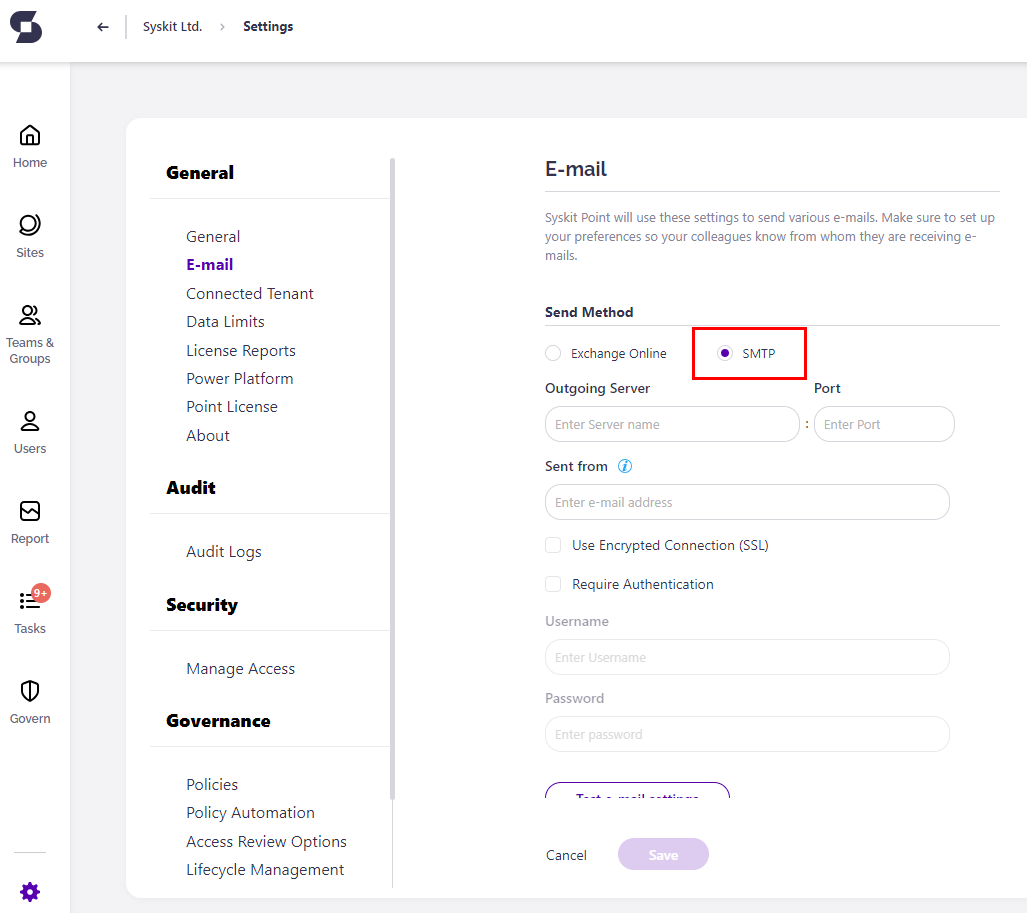
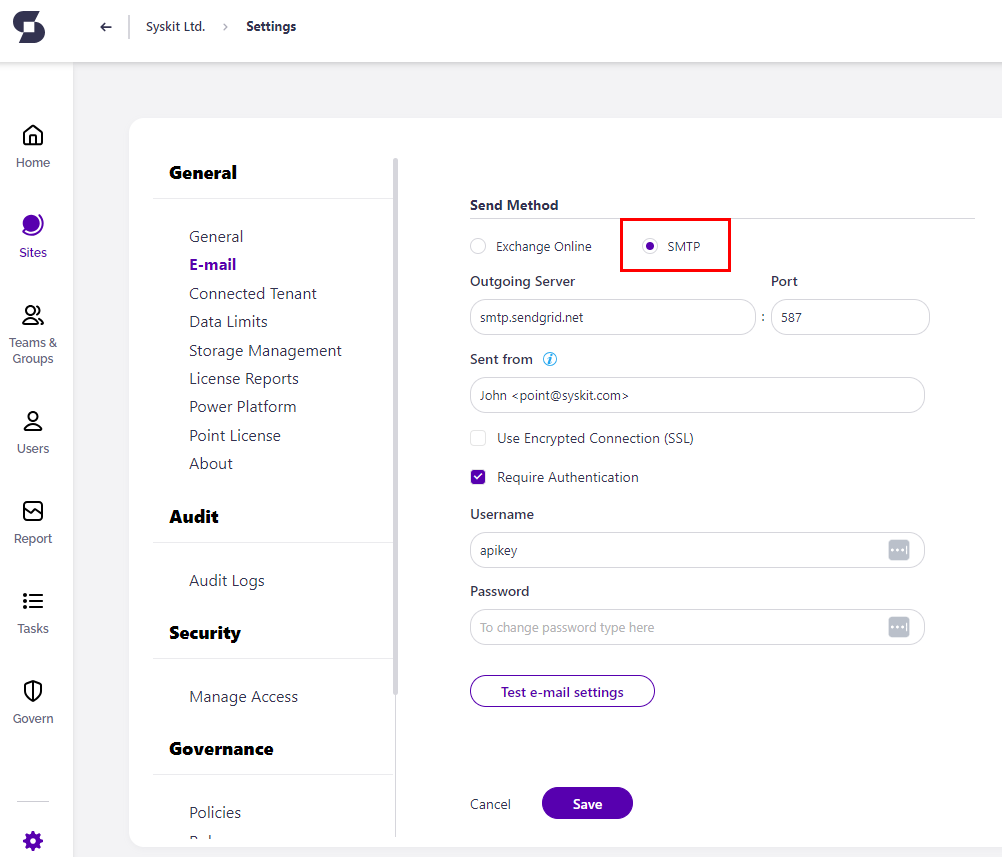
article update

diff --git a/configuration/set-up-email.md b/configuration/set-up-email.md
@@ -4,9 +4,9 @@ description: This article explains how to set up e-mail settings in Syskit Point
 
 # Set Up E-Mail
 
-**Syskit Point sends e-mails** to owners, administrators and, other users when policies are enabled and applied.
+**Syskit Point sends e-mails** to owners, administrators, and other users when policies are enabled and applied.
 
-Here you can find all the information needed to successfully configure e-mail settings, which Syskit Point will use to send the e-mails.
+Here, you can find all the information needed to successfully configure e-mail settings, which Syskit Point will use to send the e-mails.
 
 {% hint style="warning" %}
 **Please note!**\
@@ -20,7 +20,7 @@ For Syskit Point to be able to send e-mails, you need to configure the sending m
 
 {% hint style="warning" %}
 **Please Note!**\
-E-mail address set up in this section will appear in the **Sent from** field in all e-mails sent from Syskit Point.
+The e-mail address set up in this section will appear in the **Sent from** field in all e-mails sent from Syskit Point.
 {% endhint %}
 
 ## Exchange Online Settings
@@ -63,6 +63,7 @@ Select the **SMTP method** if you are using an **SMTP** server in your environme
 * **Outgoing Server**
 * **Port**
 * **Sent from** e-mail
+   * The email format can also be the following: DisplayName < email@domain.com >
 *   **Username** and **Password**; in case the **Require Authentication** option is enabled
 
     You can also choose whether to **Use Encrypted Connection (SSL)**.
